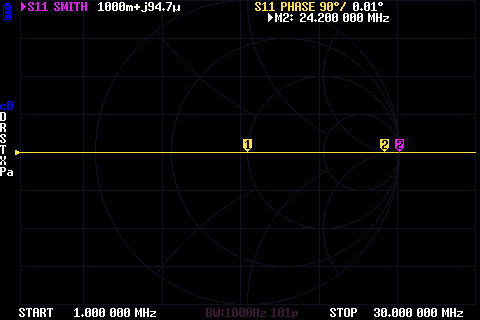
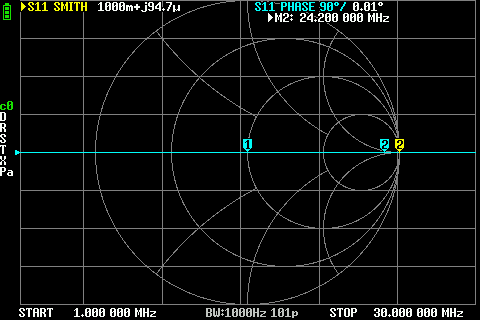
capture.py: decode the palette in the LCD byte order the firmware uses
The firmware's RGB565() packs g low bits at 13-15, b at 8-12, r at 3-7 and
g high bits at 0-2 (nanovna.h, 16-bit LCD mode); capture.py decoded palette
words with the textbook layout, so every capture showed e.g. yellow as
magenta and light grey as green. The committed ground-truth captures'
PLTE chunks are rewritten (indices unchanged); the renderer comparison is
by palette colour and is unaffected.

Claude-Session: https://claude.ai/code/session_01FSe6QSPrnPbGSXv1CzQVMf

diff --git a/tools/manual/capture.py b/tools/manual/capture.py
@@ -48,7 +48,13 @@ def packbits(src):
 
 
 def rgb565_to_rgb(v):
-    return ((v >> 11) & 0x1F) * 255 // 31, ((v >> 5) & 0x3F) * 255 // 63, (v & 0x1F) * 255 // 31
+    """Palette word -> (r, g, b). The firmware stores RGB565 in the LCD's byte order (nanovna.h
+    RGB565(): g low bits in 13-15, b in 8-12, r in 3-7, g high bits in 0-2), not the textbook layout."""
+    return v & 0xF8, ((v & 7) << 5) | ((v >> 11) & 0x1C), (v >> 5) & 0xF8
+
+
+def rgb_to_rgb565(r, g, b):
+    return ((g & 0x1C) << 11) | ((b & 0xF8) << 5) | (r & 0xF8) | ((g & 0xE0) >> 5)
 
 
 def write_png(path, width, height, palette_rgb, rows):
